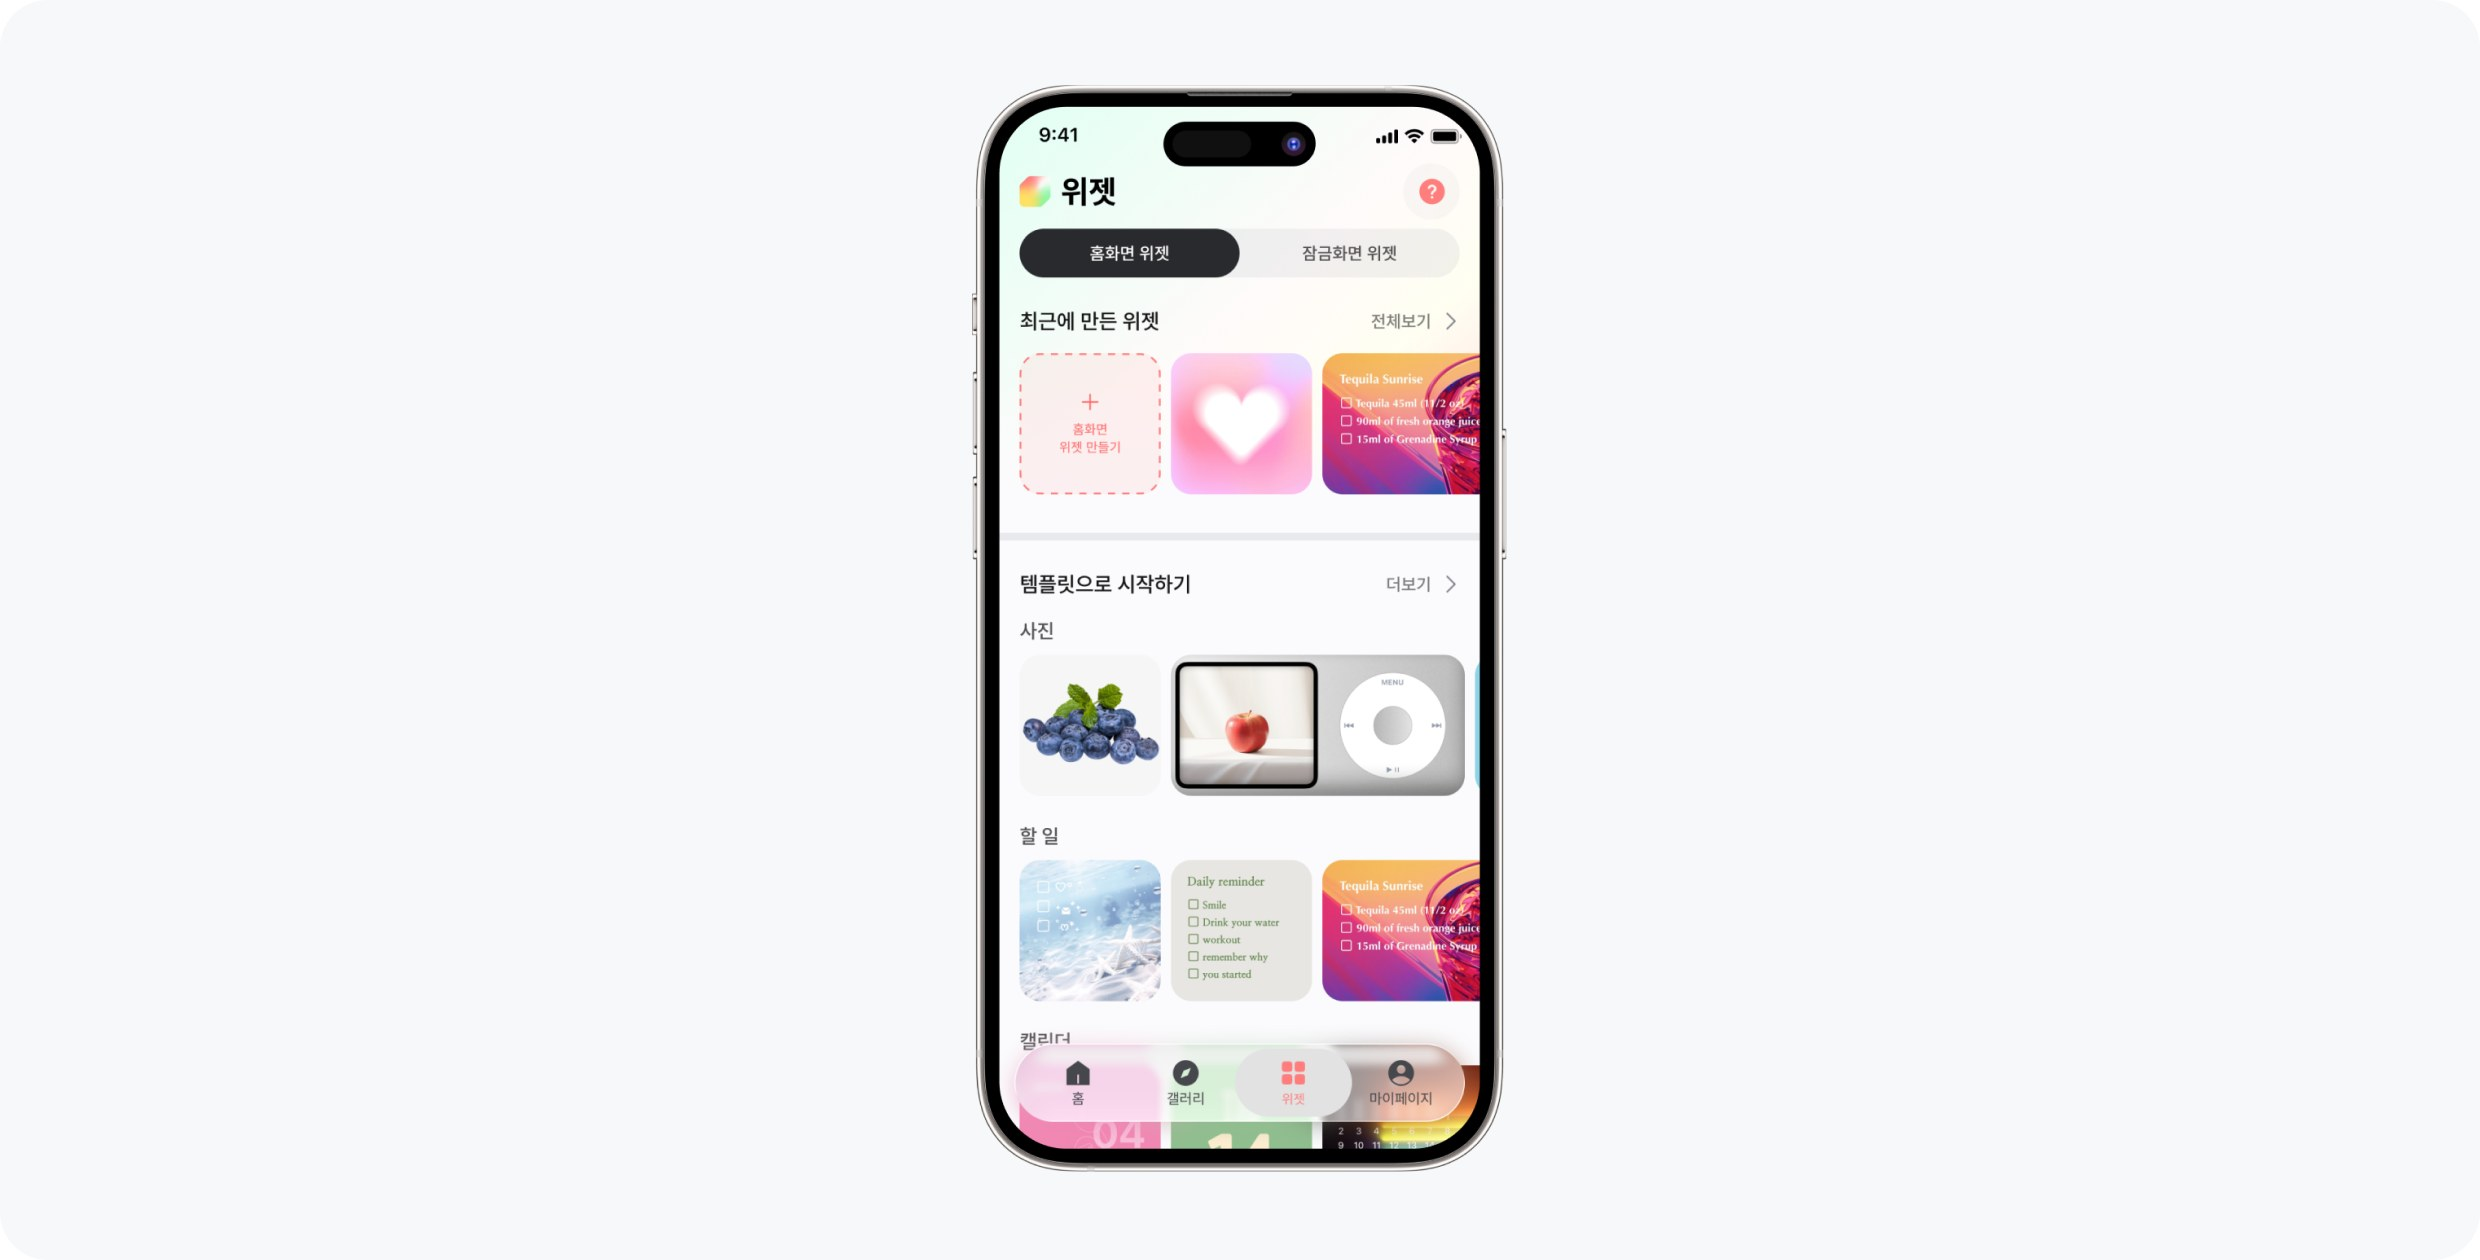
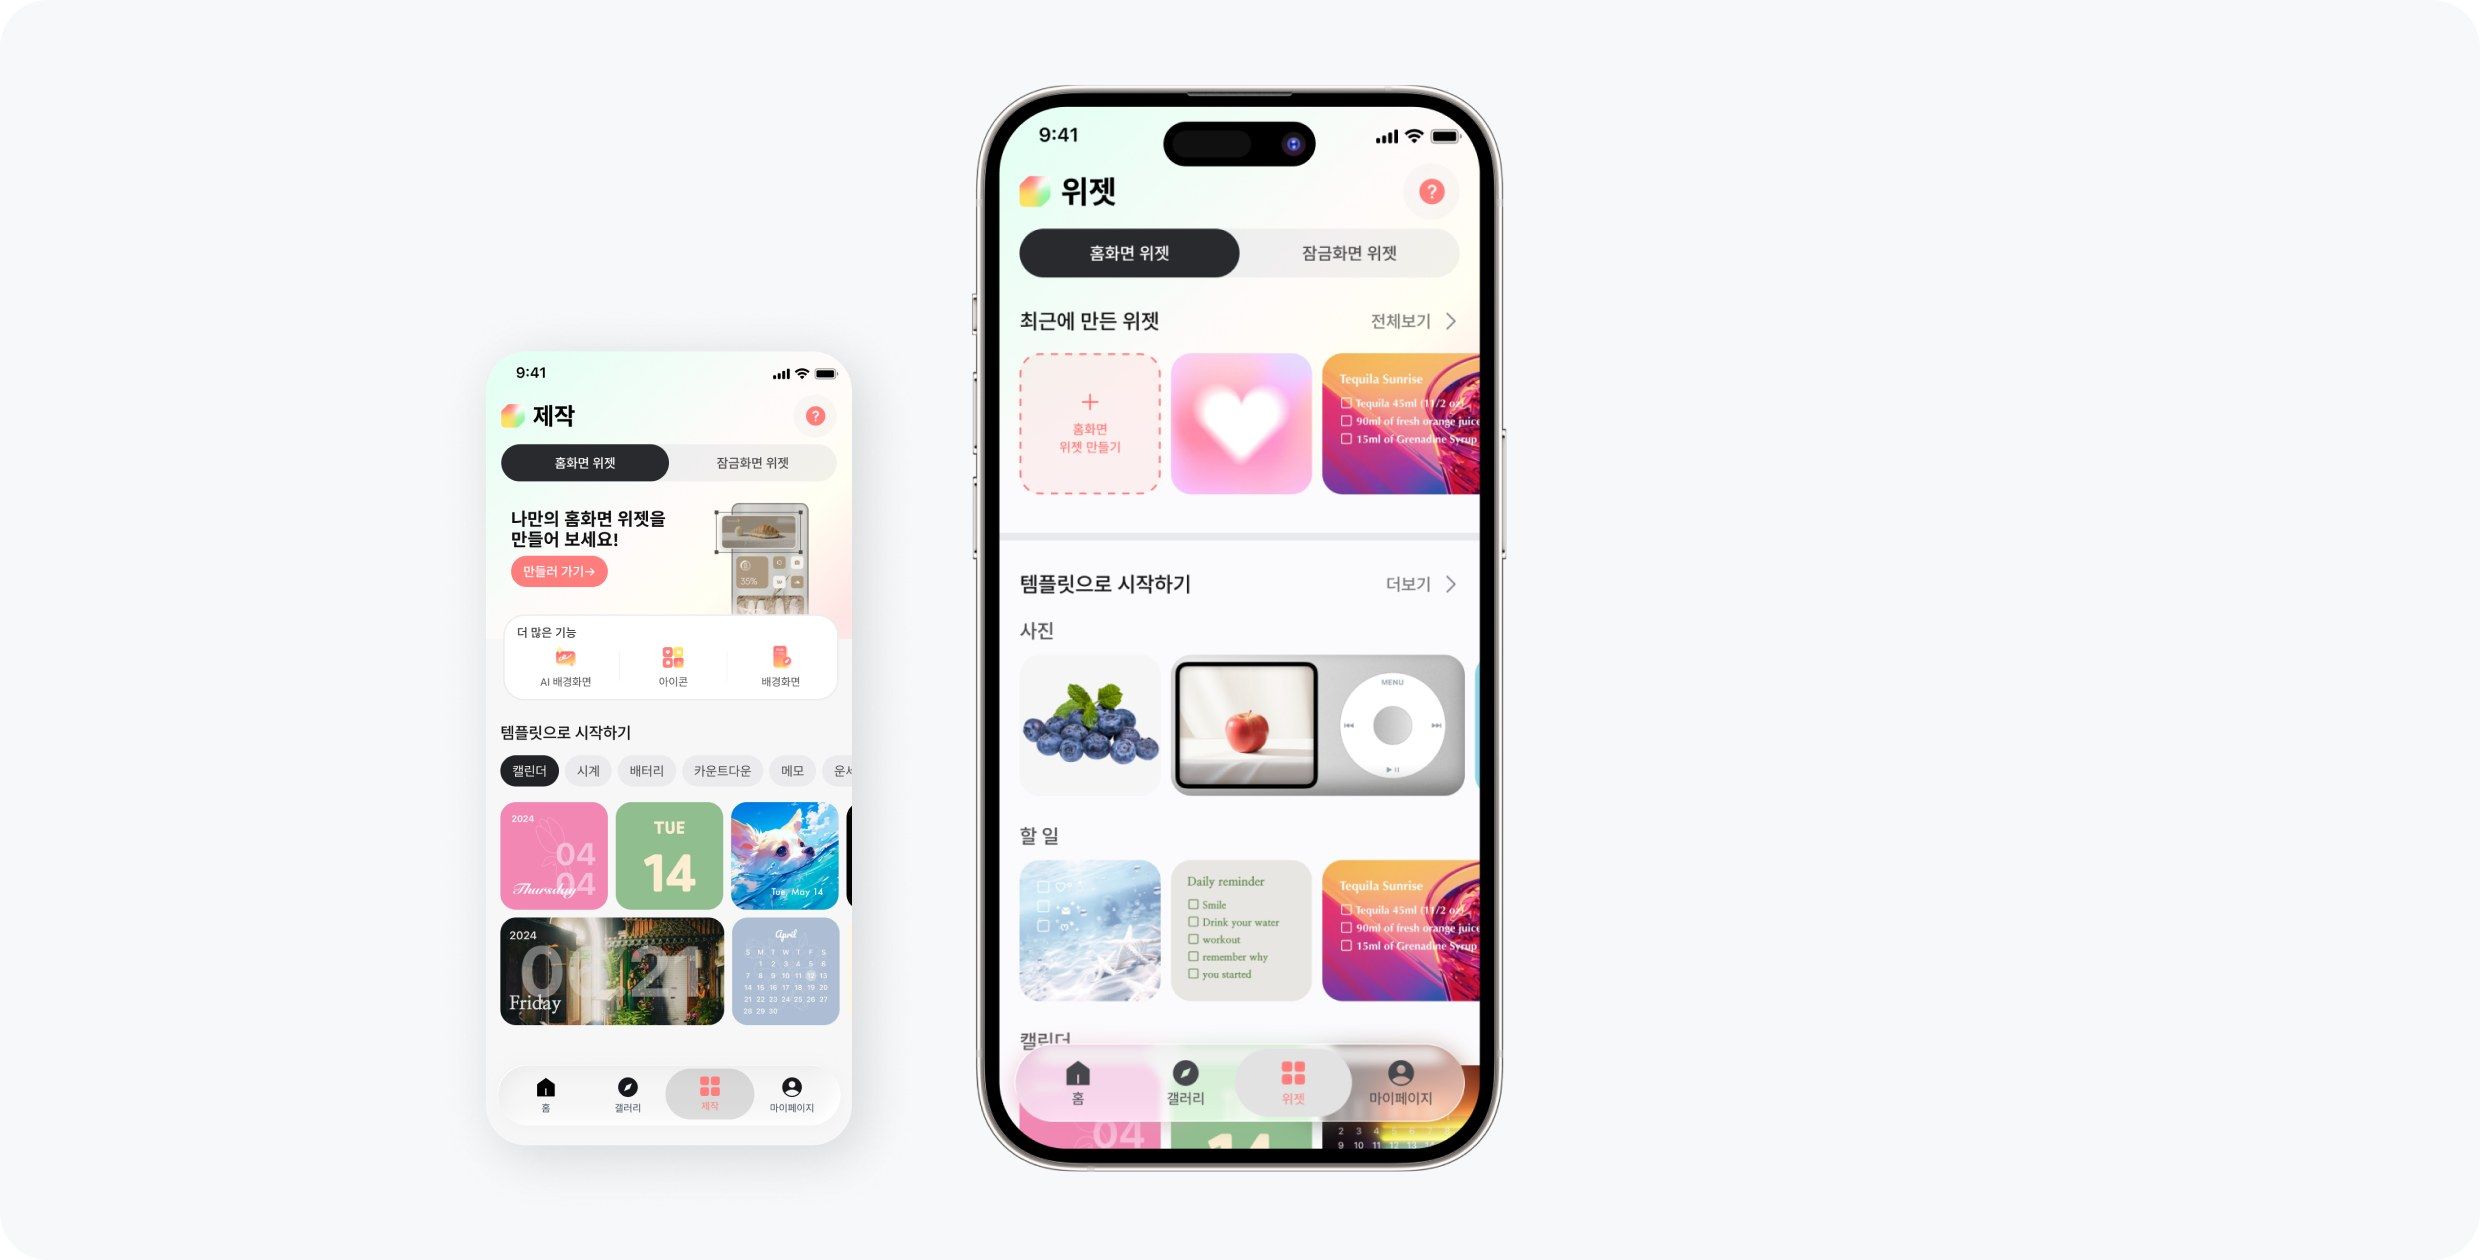
Widget-tab: sync text edits, new Solution and onboarding section per Figma

Changed region(s): [[0.1863, 0.4952, 0.3415, 0.8976], [0.1863, 0.3095, 0.3415, 0.4952], [0.3105, 0.2786, 0.3415, 0.3405]]

diff --git a/docs/projects/photowidget-widget-tab/index.html b/docs/projects/photowidget-widget-tab/index.html
@@ -41,7 +41,7 @@
       <p class="caption">Problem Definition</p>
       <h2>기존 제작 탭은 위젯 제작을 유도하지 못했다</h2>
       <div class="body body-reg">
-        <p>3월 위젯 만들기 화면을 개편하면서, 위젯 제작을 유도하기 위한 별도의 공간으로 ‘제작 탭’을 함께 출시했어요. 그러나 출시 후 데이터를 확인한 결과, 제작 탭 진입률은 GNB 기준 5.8%에 그쳤고, 탭에 진입한 사용자 중 60%는 위젯 만들기 화면으로 이동하지 않았어요. 이를 통해 제작 탭으로의 유입이 적을 뿐 아니라, 탭 내에서도 위젯 제작을 충분히 유도하지 못해 출시 의도만큼 활용되지 않고 있음을 확인했어요.</p>
+        <p>3월 위젯 만들기 화면을 개편하면서, 위젯 제작을 유도하기 위한 별도의 공간으로 ‘제작 탭’을 함께 출시했어요. 그러나 출시 후 데이터를 확인한 결과, 제작 탭 진입률은 GNB 기준 5.8%에 그쳤고, 탭에 진입한 사용자 중 60%는 위젯 만들기 화면으로 이동하지 않았어요. 이를 통해 제작 탭으로의 유입이 적을 뿐 아니라, 탭 내에서도 위젯 제작을 충분히 유도하지 못하고 있음을 확인했어요.</p>
       </div>
     </div>
   </section>
@@ -61,9 +61,9 @@
     <img class="shot" src="/yoojin-portfolio/assets/widget-tab/strategy.jpg?v=3" width="1240" height="630" alt="기존 제작 탭과 사용자 유형 두 가지: 만들고 싶은 위젯이 정해진 사용자는 편집 화면으로 빠르게 진입, 앱을 둘러보다 진입한 탐색 사용자는 위젯 콘텐츠를 탐색해 만들기 시작하도록 유도" />
     <div class="sec-text text-col">
       <p class="caption">UX Strategy</p>
-      <h2>사용자의 탭 진입 목적에 맞춰 제작 탭을 재구성해 위젯 만들기 유도하기</h2>
+      <h2>여러 사용자 시나리오 분석해 기능을 선별하여 제작 탭 재구성하기</h2>
       <div class="body body-reg">
-        <p>기존 제작 탭은 여러 기능의 진입점만 제공해, 위젯 제작을 충분히 유도하지 못했어요. 이를 해결하기 위해 제작 탭에 진입하는 사용자 시나리오를 두 유형으로 구분하고, 각 경험에 필요한 기능을 제공하고자 했어요.<br />하나는 위젯을 만들러 온 사용자가 편집 화면에 바로 진입하도록 하는 것, 다른 하나는 제작 탭을 둘러보는 사용자가 위젯 콘텐츠를 발견하고, 이를 통해 위젯 만들기를 시작하도록 하는 것이에요.</p>
+        <p>기존 제작 탭은 여러 기능의 진입점만 제공해, 위젯 제작을 충분히 유도하지 못했어요. 이를 해결하기 위해 제작 탭에 진입하는 사용자 시나리오를 두 유형으로 구분하고, 각 경험에 필요한 기능을 제공하고자 했어요. 하나는 위젯을 만들러 온 사용자가 편집 화면에 잘 진입하도록 하는 것, 다른 하나는 탭을 탐색하는 사용자가 위젯 콘텐츠를 발견해 제작으로 이어지게 하는 것이에요.</p>
       </div>
     </div>
   </section>
@@ -72,9 +72,9 @@
     <img class="shot" src="/yoojin-portfolio/assets/widget-tab/draft.jpg?v=1" width="610" height="630" alt="1차 시안: 위젯 만들기 진입점, 더 많은 기능 숏컷, 템플릿 영역에 1~3 번호 표시" />
     <div class="sec-text">
       <p class="caption">Initial Design Approach</p>
-      <h2>기존 기능의 접근성을 유지하며 위젯을 중점으로 화면 설계</h2>
+      <h2>기존 기능의 접근성을 유지하며 위젯을 중점으로 화면 설계하기</h2>
       <div class="body body-reg">
-        <p>기존 제작 탭에는 위젯을 만들러 온 사용자뿐 아니라 다른 기능을 이용하기 위해 진입하는 사용자도 있었어요. 따라서 기존 기능의 접근성을 유지하면서 위젯 만들기를 중심으로 화면을 설계했어요.</p>
+        <p>기존 제작 탭에는 위젯을 만들러 온 사용자뿐 아니라 다른 기능을 이용하기 위해 진입하는 사용자도 있었어요. 따라서 기존 행동 패턴을 고려하되, 기능 우선순위를 정하고 이를 바탕으로 화면을 구체화했어요.</p>
         <ol class="points points-draft">
           <li><strong>위젯 만들기 진입점을 화면 최상단에 배치해 핵심 기능 강조</strong></li>
           <li><strong>다른 기능의 진입점은 그대로 제공하되, 숏컷으로 축소해 시각적 위계 조정</strong></li>
@@ -90,23 +90,29 @@
       <p class="caption">Usability Test</p>
       <h2>탬플릿은 긍정적이였지만, 제작 진입점이 잘 보이지 않았다</h2>
       <div class="body body-reg">
-        <p>개선한 제작 탭이 위젯 만들기를 유도할 수 있는지 확인하기 위해 UT를 진행했어요. 템플릿에 대한 관심은 긍정적이었지만, 위젯 만들기 진입점을 찾는데 어려움이 있었어요. 또한 기존 사용자를 고려해 유지한 다른 기능의 진입점은 거의 사용하지 않았어요. 여러 기능을 함께 배치한 화면 구성이 오히려 시선을 분산시켜, 위젯 만들기 진입점에 대한 주목도를 낮췄다고 판단했어요.<br />이를 통해 위젯 제작 유도라는 핵심 목표를 달성하는 데 소수 사용자의 기존 접근성을 유지하는 것이 유의미한지 재검토하게 됐어요.</p>
+        <p>개선한 화면이 위젯 제작을 유도하는 지 확인하기 위해 UT를 진행했어요. 템플릿에 대한 평가는 긍정적이었지만, 상단 위젯 만들기 진입점을 잘 찾지 못했어요. 또한 기존 사용자를 고려해 유지한 다른 기능의 진입점은 거의 사용하지 않았어요. <strong class="semi">여러 기능을 함께 배치한 화면 구성이 오히려 시선을 분산시켜, 위젯 만들기 진입점에 대한 주목도를 낮췄다고 판단했어요.</strong><br />이를 통해 위젯 제작 유도라는 핵심 목표를 달성하는 데 소수 사용자의 기존 접근성을 유지하는 것이 유의미한지 재검토하게 됐어요.</p>
       </div>
     </div>
   </section>
 
   <section class="sec">
-    <img class="shot" src="/yoojin-portfolio/assets/widget-tab/solution.jpg?v=2" width="1240" height="630" alt="리뉴얼한 위젯 탭 화면" />
+    <img class="shot" src="/yoojin-portfolio/assets/widget-tab/solution.jpg?v=3" width="1240" height="630" alt="기존 제작 탭(왼쪽)과 위젯 전용 탭으로 리뉴얼한 화면(오른쪽)" />
     <div class="sec-text text-col">
       <p class="caption">Solution</p>
-      <h2>위젯 전용 탭으로 리뉴얼: 진입점은 심플하게, 탐색은 한눈에 보이도록</h2>
+      <h2>탭의 역할이 명확하도록 위젯 전용 탭으로 리뉴얼하기</h2>
       <div class="body body-reg">
-        <p>위젯 전용 탭이 핵심 기능 인지에 더 유의미할거라 판단해 과감히 좁혔어요.</p>
-        <ol class="points points-dot">
-          <li><strong>위젯 전용 탭으로 리뉴얼</strong>앱 정체성을 강조하고 탭 진입을 유도했어요.</li>
-          <li><strong>진입점과 최근에 만든 위젯 노출</strong>언제든 만들기 화면에 진입할 수 있게 했어요.</li>
-          <li><strong>세로 스크롤 구조로 변경</strong>다양한 템플릿 옵션을 노출했어요.</li>
-        </ol>
+        <p>위젯 제작 유도를 최우선 목표로 삼아, 위젯 외 기능의 진입점은 과감히 제거하고 제작 탭을 위젯 전용 탭으로 리뉴얼했어요. <br />이는 탭의 역할을 명확히 해 진입률을 높이기 위한 결정이었어요. 위젯 만들기 진입점을 플레이스홀더 형태로 변경하고, 최근에 만든 위젯을 함께 노출해 새 위젯을 만드는 영역임을 쉽게 인지하도록 설계했어요. 또한, 템플릿은 다양한 콘텐츠를 한눈에 볼 수 있도록 기존 태그별 구분을 세로 스크롤 방식으로 변경했어요.</p>
+      </div>
+    </div>
+  </section>
+
+  <section class="sec">
+    <img class="shot" src="/yoojin-portfolio/assets/widget-tab/onboarding.jpg?v=1" width="1240" height="630" alt="가입 후 Day 1~7은 시작 탭을 Widget 탭으로, Day 8부터는 Home 탭으로 노출" />
+    <div class="sec-text text-col">
+      <p class="caption">Solution</p>
+      <h2>탭의 역할이 명확하도록 위젯 전용 탭으로 리뉴얼하기</h2>
+      <div class="body body-reg">
+        <p>위젯 전용 탭으로 리뉴얼하면서 탭 진입률이 늘 것으로 기대했지만, 출시 후 지표는 달랐어요. 기존 사용자는 서비스에 익숙해 스스로 위젯 탭에 진입한 반면, 신규 사용자의 진입률은 낮았어요. 이는 지표 문제를 넘어, 신규 사용자가 위젯 제작을 경험할 기회도 놓치고 있다는 뜻이에요. 이를 해결하고자 가입 후 첫 1주일간 위젯 탭을 스타트 탭으로 노출해, 위젯 만들기를 직접 경험하고 탭의 기능을 인지하여 이후에도 스스로 진입할 수 있도록 온보딩 플로우를 설계했어요.</p>
       </div>
     </div>
   </section>

diff --git a/docs/site.css b/docs/site.css
@@ -292,3 +292,5 @@ a.card:hover .ph { opacity: .75; }
 .case-tab .sec:not(.split) .body .points { margin: 27px 0 0; }
 .case-tab .sec:not(.split) .body .points li { padding-top: 15px; padding-bottom: 15px; }
 .case-tab .sec:not(.split) .body .points li::before { top: 16px; }
+.case-tab .split .body .points-draft li { padding-left: 44px; }
+.case-tab .split .body .points-draft li::before { width: 20px; height: 20px; line-height: 20px; background: #454549; top: 19.5px; }
